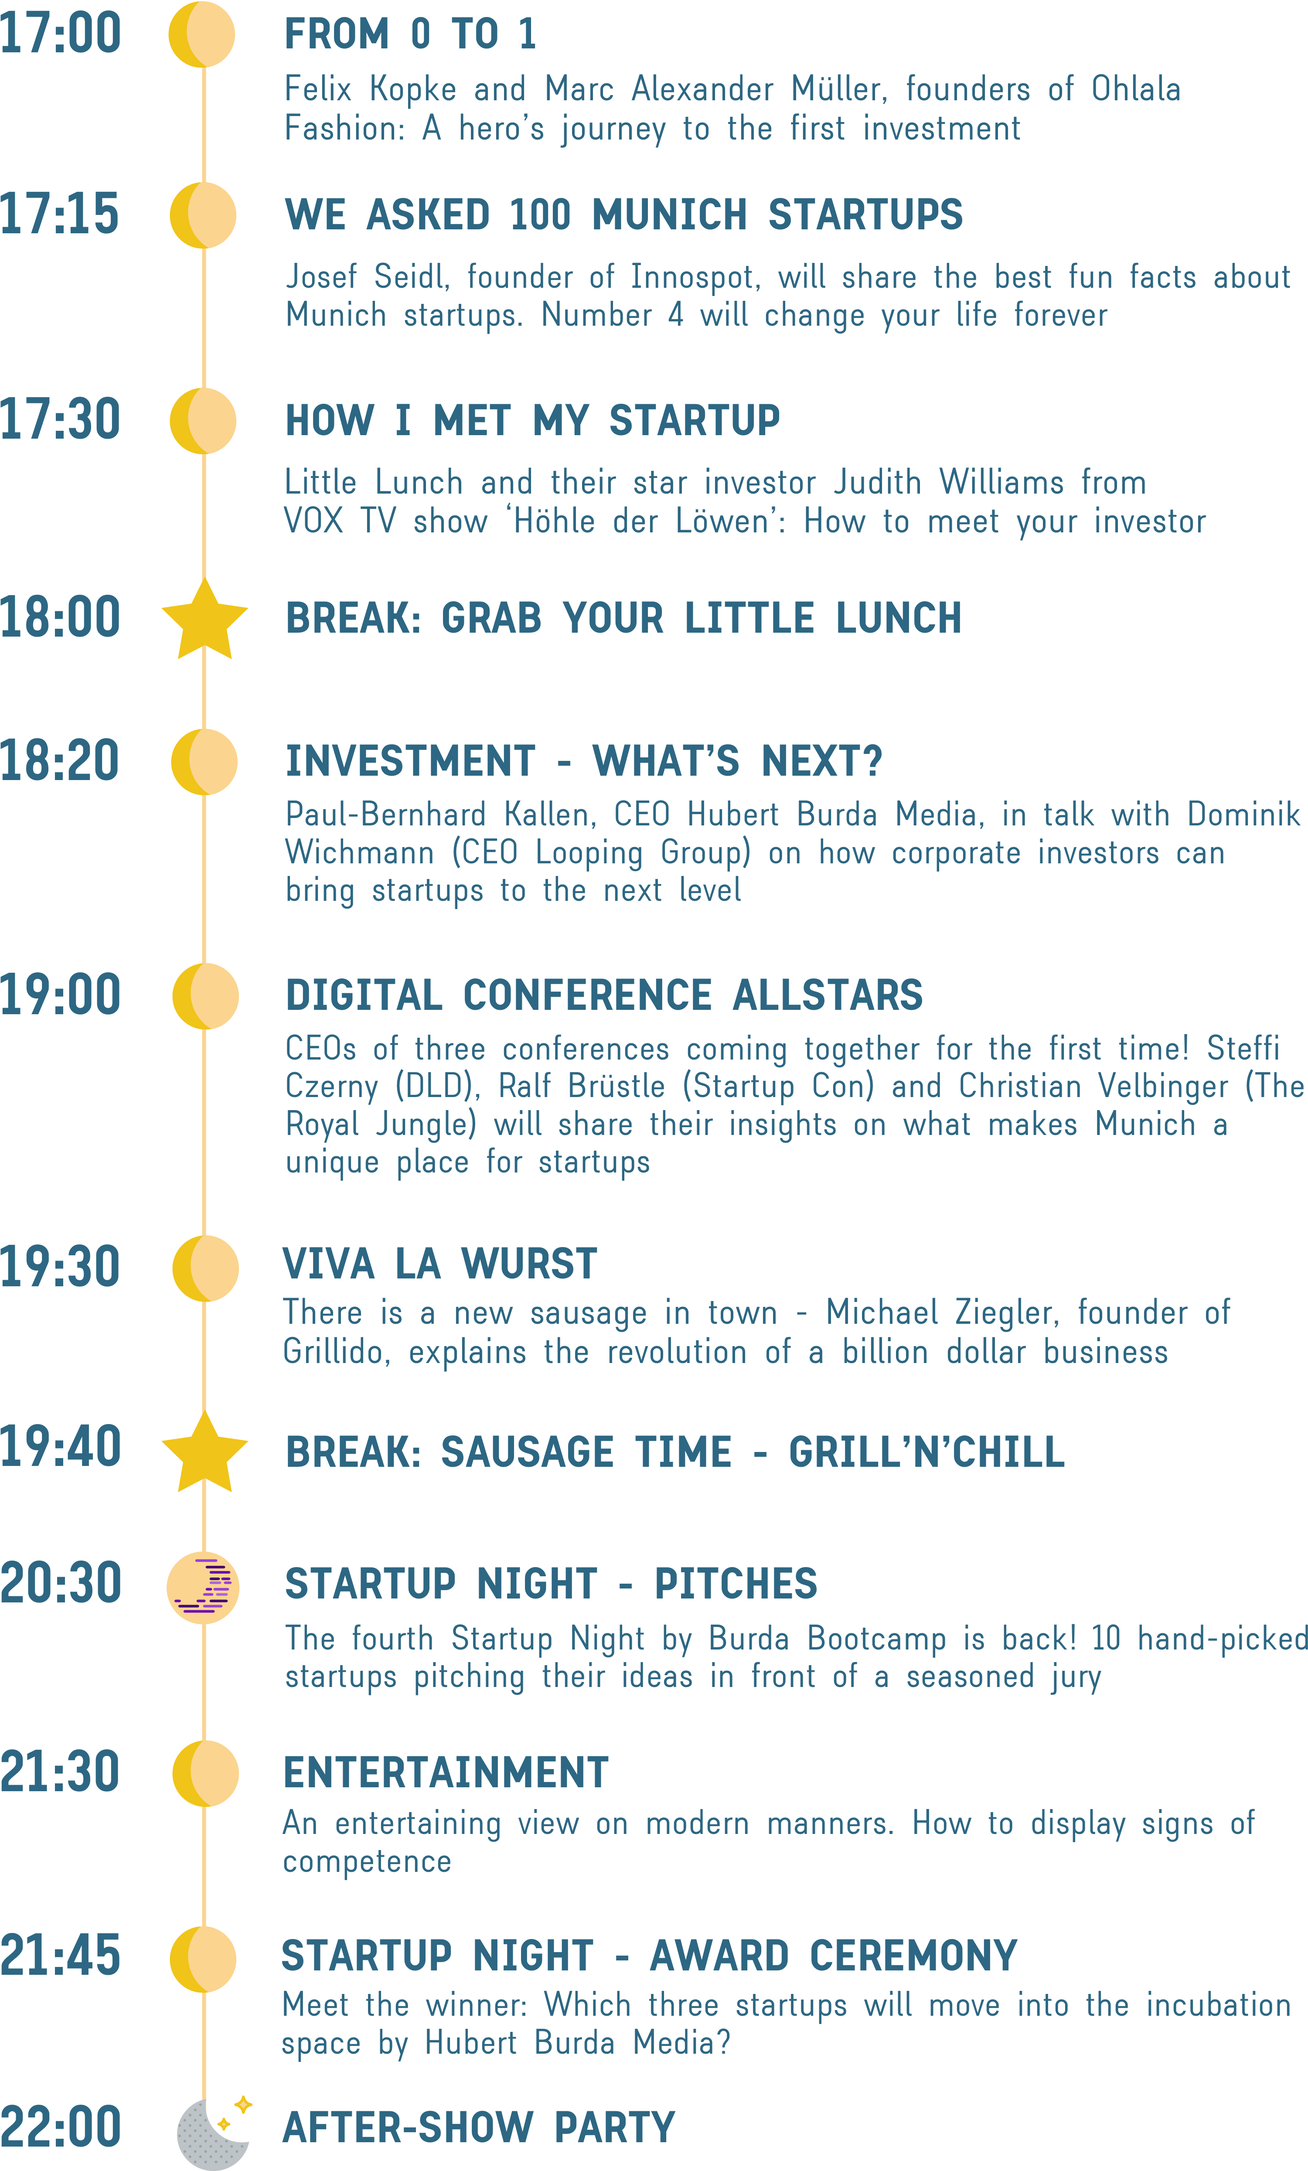
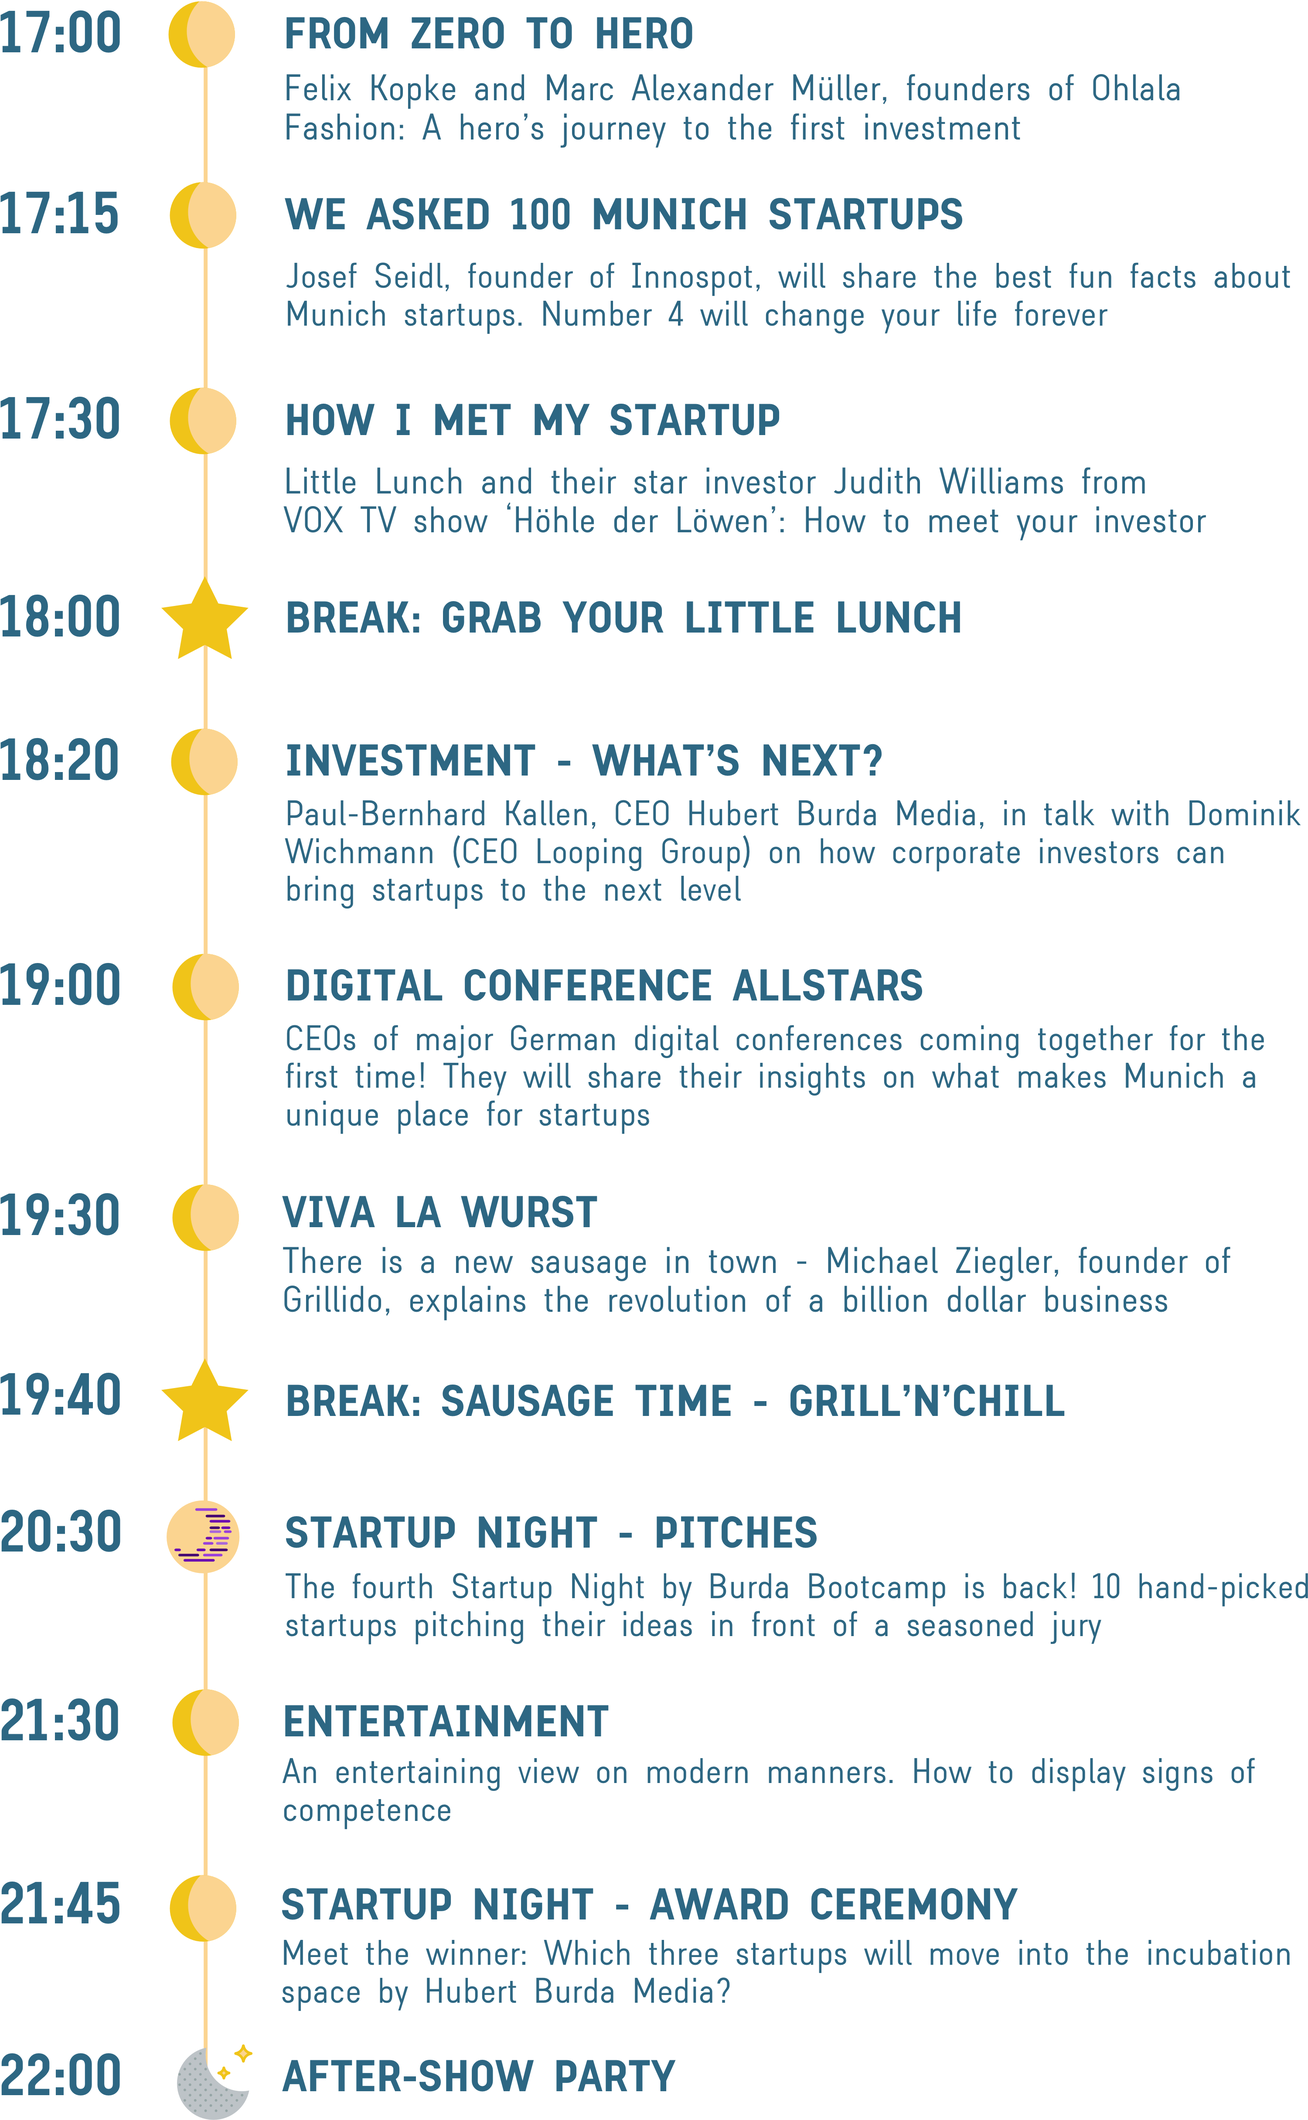
added speaker pictures and changes some styling

diff --git a/app/index.html b/app/index.html
@@ -27,13 +27,13 @@
     <meta property="og:url" content="http://startupdaynnite.de/" />
     <meta property="og:image" content="http://startupdaynnite.de/images/seo/banner.jpg" />
     <meta property="og:title" content="Startup Day'N'Nite at Burda Bootcamp – Apply now" />
-    <meta property="og:description" content="Join the Startup Day'N'Nite Conference at 13. September. Five hours of short & sweet talks, startup pitches and networking. Everything about investment and startups." />
+    <meta property="og:description" content="Join the Startup Day'N'Nite Conference at 20. January. One day of short & sweet talks, startup pitches and networking." />
 
     <meta name="url" content="http://startupdaynnite.de/" />
     <meta name="image" content="http://startupdaynnite.de/images/seo/banner.jpg" />
     <meta name="title" content="Startup Day'N'Nite at Burda Bootcamp – Apply now" />
-    <meta name="description" content="Join the Startup Day'N'Nite Conference at 13. September. Five hours of short & sweet talks, startup pitches and networking.">
-    <meta name="keywords" content="Join, the, Startup, Day'N'Nite, Conference, at, 13., September., Five, hours, of, short, &, sweet, talks, startup, pitches, and, networking., Everything, about, investment, and, startups.">
+    <meta name="description" content="Join the Startup Day'N'Nite Conference at 20. January. One day of short & sweet talks, startup pitches and networking.">
+    <meta name="keywords" content="Join, the, Startup, Day'N'Nite, Conference, at, 20., January., one, day, of, short, &, sweet, talks, startup, pitches, and, networking., Everything, about, investment, and, startups.">
 
     <link rel="stylesheet" href="css/style.css?v2">
     <link rel="apple-touch-icon" sizes="57x57" href="images/favicons/apple-icon-57x57.png?v2">
@@ -82,10 +82,10 @@
       <img class="header-icon" src="images/splashscreen_header_icon.svg" style="">
       <img class="headline" src="images/splashscreen_headline.png" style="">
       <div class="timedate">
-        Sep 13, 2017, Munich, Burda Bootcamp
+        Jan 20, 2018, Munich
       </div>
       <div class="description">
-        Five hours of short & sweet talks,<br />
+        More than ten hours of short & sweet talks,<br />
         startup pitches and networking.
       </div>
     </div>
@@ -94,17 +94,24 @@
       <section class="application mob hidden-xs hidden-sm">
         <div class="container">
           <div class="row">
-            <div class="col-md-4 col-md-offset-2" style="display:none">
-              <a target="_blank" onclick="startupLead()" href="https://goo.gl/forms/iQ4ZKQ0pfWqZEmVh2">
+            <div class="col-md-4 col-md-offset-2">
+              <a target="_blank" onclick="startupLead()" href="https://burdabootcamp.typeform.com/to/wRp4bu">
                 <div class="btn">
                   STARTUPS: APPLY NOW TO PITCH
                 </div>
               </a>
             </div>
-            <div class="col-md-4 col-md-offset-4">
-              <a target="_blank" onclick="visitorLead()" href="https://burdabootcamp.typeform.com/to/qfUWOv">
+            <div class="col-md-4">
+              <a target="_blank" onclick="visitorLead()" href="https://burdabootcamp.typeform.com/to/i7gNKM">
                 <div class="btn">
                   VISITORS: APPLY FOR FREE TICKET!
+                </div>
+              </a>
+            </div>
+            <div class="col-md-4 col-md-offset-4" style="display:none">
+              <a target="_blank" href="http://eepurl.com/ceY0Xz">
+                <div class="btn">
+                  SIGN UP FOR THE NEWSLETTER
                 </div>
               </a>
             </div>
@@ -116,17 +123,24 @@
   <section class="application hidden-md hidden-lg">
     <div class="container">
       <div class="row">
-        <div class="col-md-4 col-md-offset-2" style="display:none">
-          <a target="_blank" onclick="startupLead()" href="https://goo.gl/forms/iQ4ZKQ0pfWqZEmVh2">
+        <div class="col-md-4 col-md-offset-2">
+          <a target="_blank" onclick="startupLead()" href="https://burdabootcamp.typeform.com/to/wRp4bu">
             <div class="btn">
               STARTUPS: APPLY NOW TO PITCH
             </div>
           </a>
         </div>
         <div class="col-md-4 col-md-offset-4">
-          <a target="_blank" onclick="visitorLead()" href="https://burdabootcamp.typeform.com/to/qfUWOv">
+          <a target="_blank" onclick="visitorLead()" href="https://burdabootcamp.typeform.com/to/i7gNKM">
             <div class="btn">
               VISITORS: APPLY FOR FREE TICKET!
+            </div>
+          </a>
+        </div>
+        <div class="col-md-4 col-md-offset-4" style="display:none">
+          <a target="_blank" href="http://eepurl.com/ceY0Xz">
+            <div class="btn">
+              SIGN UP FOR THE NEWSLETTER
             </div>
           </a>
         </div>
@@ -136,8 +150,11 @@
   <section class="deadline">
     <div class="container">
       <div class="row">
+        <div class="col-md-6 col-md-offset-3" style="display:none;">
+          Applications will be open soon! You can sign up for the newsletter to stay tuned & follow us on <a href="https://www.facebook.com/burdabootcamp/">Facebook</a>, <a href="https://www.instagram.com/burdabootcamp/">Instagram</a> & <a href="https://twitter.com/burdabootcamp/">Twitter</a>!
+        </div>
         <div class="col-md-6 col-md-offset-3">
-          Application for visitors is open until September 11th!
+          Application deadline 10.01.2018
         </div>
       </div>
     </div>
@@ -146,7 +163,7 @@
     <div class="container">
       <img src="images/info_header_icon.svg"/>
       <div class="headline">
-        Sep 13, 2017, Munich, Burda Bootcamp
+        Jan 20, 2017, Munich
       </div>
       <div class="description">
         Startup Day’n’Nite is the first invite-only conference by Burda Bootcamp for founders and investors to learn from each other, network and grill together!
@@ -157,7 +174,7 @@
     <div class="container">
       <img src="images/speaker_header_icon.svg"/>
       <div class="headline">
-        Meet the speakers
+        Meet the previous speakers
       </div>
       <div class="row">
         <div class="col-md-offset- col-md-3 speaker-box">
@@ -252,12 +269,49 @@
           </div>
         </div>
         <div class="col-md-3 speaker-box">
-          <img class="img-circle" src="images/jury/ralfbruestle.jpg"/>
+          <img class="img-circle" src="images/speaker/grillido.jpg"/>
           <div class="name">
-            Ralf Brüstle
+             Michael Ziegler & Manuel Stöffler
           </div>
           <div class="description">
-             CEO, StartupCon
+            Founders, <br />
+            <a href="http://www.grillido.com/">Grillido</a>
+          </div>
+        </div>
+        <div class="col-md-3 speaker-box">
+          <img class="img-circle" src="images/speaker/carolinhenseler.png"/>
+          <div class="name">
+             Carolin Henseler
+          </div>
+          <div class="description">
+            Moderator
+          </div>
+        </div>
+        <div class="col-md-3 speaker-box">
+          <img class="img-circle" src="images/speaker/svengoblirsch.jpg"/>
+          <div class="name">
+             Sven Goblirsch
+          </div>
+          <div class="description">
+            Moderator
+          </div>
+        </div>
+        <div class="col-md-3 speaker-box">
+          <img class="img-circle" src="images/speaker/martinploeckl.jpg"/>
+          <div class="name">
+             Martin Plöckl
+          </div>
+          <div class="description">
+            Moderator
+          </div>
+        </div>
+        <div class="col-md-3 speaker-box">
+          <img class="img-circle" src="images/speaker/dariasaharova.jpg"/>
+          <div class="name">
+            Daria Saharova
+          </div>
+          <div class="description">
+             Partner, Vito One
           </div>
         </div>
         <div class="col-md-3 speaker-box">
@@ -273,6 +327,7 @@
       </div>
     </div>
   </section>
+  <!--START TIMELINE
   <section class="timeline">
     <div class="container">
       <img src="images/timeline_header_icon.svg"/>
@@ -284,10 +339,17 @@
         <img class="hidden-sm hidden-md hidden-lg" src="images/timeline_timeline_xs.png"/>
         <div class="container">
           <div class="row">
-            <div class="col-md-offset-4 col-md-4">
+            <div class="col-md-offset-4 col-md-4" style="display:none;">
               <a target="_blank" onclick="visitorLead()" href="https://burdabootcamp.typeform.com/to/qfUWOv">
                 <div class="btn">
                   VISITORS: APPLY FOR FREE TICKET!
+                </div>
+              </a>
+            </div>
+            <div class="col-md-4 col-md-offset-4">
+              <a target="_blank" href="http://eepurl.com/ceY0Xz">
+                <div class="btn">
+                  SIGN UP FOR THE NEWSLETTER
                 </div>
               </a>
             </div>
@@ -296,6 +358,7 @@
       </div>
     </div>
   </section>
+  END TIMELINE -->
   <section class="startupnite">
     <div class="container">
       <img src="images/startupnight_logo.png"/>
@@ -306,7 +369,7 @@
         focus on b2c startups who have validated the market and created <br />
         the first MVP.<br />
         <br />
-        Application is open until <b>September 4th 2017</b>.
+        Application  starts <b>soon</b>.
       </div>
       <div class="row benefits">
         <div class="col-md-3 col-md-offset- ">
@@ -351,7 +414,7 @@
           <br>
           <b>Conference Tickets</b>
           <p>
-            Get an exlusive "Access All Areas Pass" for The Royal Jungle 2018 in Munich
+            Tickets to DLD Berlin, Slush, Startup Con (+ free booth), The Royal Jungle
           </p>
         </div>
       </div>
@@ -361,7 +424,7 @@
     <div class="container">
       <img src="images/jury_header_icon.svg"/>
       <div class="headline">
-        Meet our jury
+        Meet our previous jury
       </div>
       <div class="row">
         <div class="col-md-4 jury-box">
@@ -370,10 +433,10 @@
             Marie Stephan
           </div>
           <div class="description">
-             Director M&A, Hubert Burda Media
+             Director M & A, Hubert Burda Media
           </div>
         </div>
-        <div class="col-md-4 jury-box">
+        <!--<div class="col-md-4 jury-box">
           <img class="img-circle" src="images/jury/mariakaltenegger.jpg"/>
           <div class="name">
             Maria Kaltenegger
@@ -381,7 +444,7 @@
           <div class="description">
              Partner, KPMG
           </div>
-        </div>
+        </div>-->
         <div class="col-md-4 jury-box">
           <img class="img-circle" src="images/jury/thomashetmann.png"/>
           <div class="name">
@@ -424,7 +487,7 @@
         <div class="col-md-6">
           <b> When does the application period end? </b>
           <p>
-            You can apply until September, 4th. We will let you know by September 4th, if you have been selected, so that you have enough time to prepare your pitch.
+            You can apply until January, 4th. We will let you know by January 10th, if you have been selected, so that you have enough time to prepare your pitch.
           </p>
         </div>
         <div class="col-md-6">
@@ -436,7 +499,7 @@
         <div class="col-md-6">
           <b>What do we need to prepare? </b>
           <p>
-            Just fill out the questionnaire and we will get back to you if we need more information. Selected startups will then have to prepare a 3-min pitchdeck and a small booth for the evening September 13th, 2017.
+            Just fill out the questionnaire and we will get back to you if we need more information. Selected startups will then have to prepare a 3-min pitchdeck and a small booth for the evening January 20th, 2018.
           </p>
         </div>
         <div class="col-md-6">
@@ -559,9 +622,23 @@
         <a target="_blank" href="http://dld-conference.com/"><img class="col-md-4 col-sm-12 col-xs-12" src="images/partner/DLD.png" style="padding-top: 80px; padding-bottom: 60px; padding-left: 40px; padding-right: 40px;"/></a>
         <a target="_blank" href="http://www.theroyaljungle.com/"><img class="col-md-4 col-sm-12 col-xs-12" src="images/partner/TRJ.png" style="padding-bottom: 50px;"/></a>
         <a target="_blank" href="https://littlelunch.de/"><img class="col-md-4 col-sm-12 col-xs-12" src="images/partner/littlelunch.png" style="padding-top:30px; padding-left: 90px; padding-right: 90px; padding-bottom: 80px"/></a>
-        <a target="_blank" href="http://innospot.de/"><img class="col-md-4 col-sm-12 col-xs-12" src="images/partner/innospot.png" style="padding-top:80px; padding-bottom:140px"/></a>
-        <a target="_blank" href="http://missionmoney.de/"><img class="col-md-4 col-sm-12 col-xs-12" src="images/partner/munichstartup.png" style="padding-top:20px; padding-bottom:110px"/></a>
-        <a target="_blank" href="http://www.munich-startup.de/"><img class="col-md-4 col-sm-12 col-xs-12" src="images/partner/missionmoney.png" style="padding-top:20px; padding-bottom:180px"/></a>
+        <a target="_blank" href="https://www.grillido.de/"><img class="col-md-4 col-sm-12 col-xs-12" src="images/partner/grillido.png" style="padding-top:30px; padding-left: 90px; padding-right: 90px; padding-bottom: 80px"/></a>
+        <a target="_blank" href="http://www.vodrock.com/"><img class="col-md-4 col-sm-12 col-xs-12" src="images/partner/vodrock.png" style="padding-top:50px; padding-left: 50px; padding-right: 50px; padding-bottom: 110px"/></a>
+        <a target="_blank" href="http://innospot.de/"><img class="col-md-4 col-sm-12 col-xs-12" src="images/partner/innospot.png" style="padding-top:160px; padding-bottom:140px"/></a>
+        <a target="_blank" href="http://gruenderpokern.de/"><img class="col-md-4 col-sm-12 col-xs-12" src="images/partner/gruenderpokern.png" style="padding-top:0px;"/></a>
+      </div>
+    </div>
+  </section>
+  <section class="media-partner">
+    <div class="container">
+      <div class="headline">
+        Our media partners
+      </div>
+      <div class="row">
+        <a target="_blank" href="http://bunte.de/"><img class="col-md-4 col-sm-12 col-xs-12" src="images/partner/bunte_de.png" style="padding-top:20px; padding-bottom:180px; padding-left: 30px; padding-right: 30px;"/></a>
+        <a target="_blank" href="http://www.munich-startup.de/"><img class="col-md-4 col-sm-12 col-xs-12" src="images/partner/munichstartup.png" style="padding-top:20px; padding-bottom:125px"/></a>
+        <a target="_blank" href="https://berlinvalley.com/"><img class="col-md-4 col-sm-12 col-xs-12" src="images/partner/berlinvalley.png" style="padding-top:20px; padding-bottom:150px; padding-left:50px; padding-right:50px;"/></a>
+        <a target="_blank" href="http://missionmoney.de/"><img class="col-md-4 col-sm-12 col-xs-12" src="images/partner/missionmoney.png" style="padding-top:20px; padding-bottom:180px"/></a>
       </div>
     </div>
   </section>
@@ -571,7 +648,7 @@
       <h1 id="countdown"></h1>
       <script type="text/javascript">
         $("#countdown")
-            .countdown("2017/09/13", function(event) {
+            .countdown("2018/01/20", function(event) {
                 $(this).text(
                     "test"
                 );
@@ -579,14 +656,19 @@
                     "<b>s</b>"
             });
       </script>
-      <a target="_blank" onclick="startupLead()" href="https://goo.gl/forms/iQ4ZKQ0pfWqZEmVh2">
+      <a target="_blank" onclick="startupLead()" href="https://burdabootcamp.typeform.com/to/wRp4bu">
         <div class="btn">
           STARTUPS: APPLY NOW TO PITCH
         </div>
       </a>
-      <a target="_blank" onclick="visitorLead()" href="https://burdabootcamp.typeform.com/to/qfUWOv">
+      <a target="_blank" onclick="visitorLead()" href="https://burdabootcamp.typeform.com/to/i7gNKM">
         <div class="btn">
           VISITORS: APPLY FOR FREE TICKET!
+        </div>
+      </a>
+      <a target="_blank" href="http://eepurl.com/ceY0Xz" style="display:none;">
+        <div class="btn">
+          SIGN UP FOR THE NEWSLETTER
         </div>
       </a>
     </div>

diff --git a/app/css/style.css b/app/css/style.css
@@ -337,6 +337,19 @@ section.partner {
   section.partner .row {
     margin-top: 50px; }
 
+section.media-partner {
+  margin-top: 150px;
+  color: #2D6783; }
+  section.media-partner .headline {
+    text-transform: uppercase;
+    margin-top: 50px;
+    font-size: 30px;
+    letter-spacing: 0;
+    font-family: 'TWS Savory Regular';
+    font-weight: 400; }
+  section.media-partner .row {
+    margin-top: 50px; }
+
 section.pre-footer {
   width: 100%;
   margin-top: 150px;

diff --git a/app/scss/style.scss b/app/scss/style.scss
@@ -407,6 +407,23 @@ section.partner {
   }
 }
 
+section.media-partner {
+  margin-top: 150px;
+  color: $blue;
+  .headline {
+    text-transform: uppercase;
+    margin-top: 50px;
+    font-size: 30px;
+    letter-spacing: 0;
+    font-family: 'TWS Savory Regular';
+    font-weight: 400;
+  }
+  .row {
+    margin-top: 50px;
+  }
+}
+
+
 section.pre-footer {
   width: 100%;
   margin-top: 150px;
